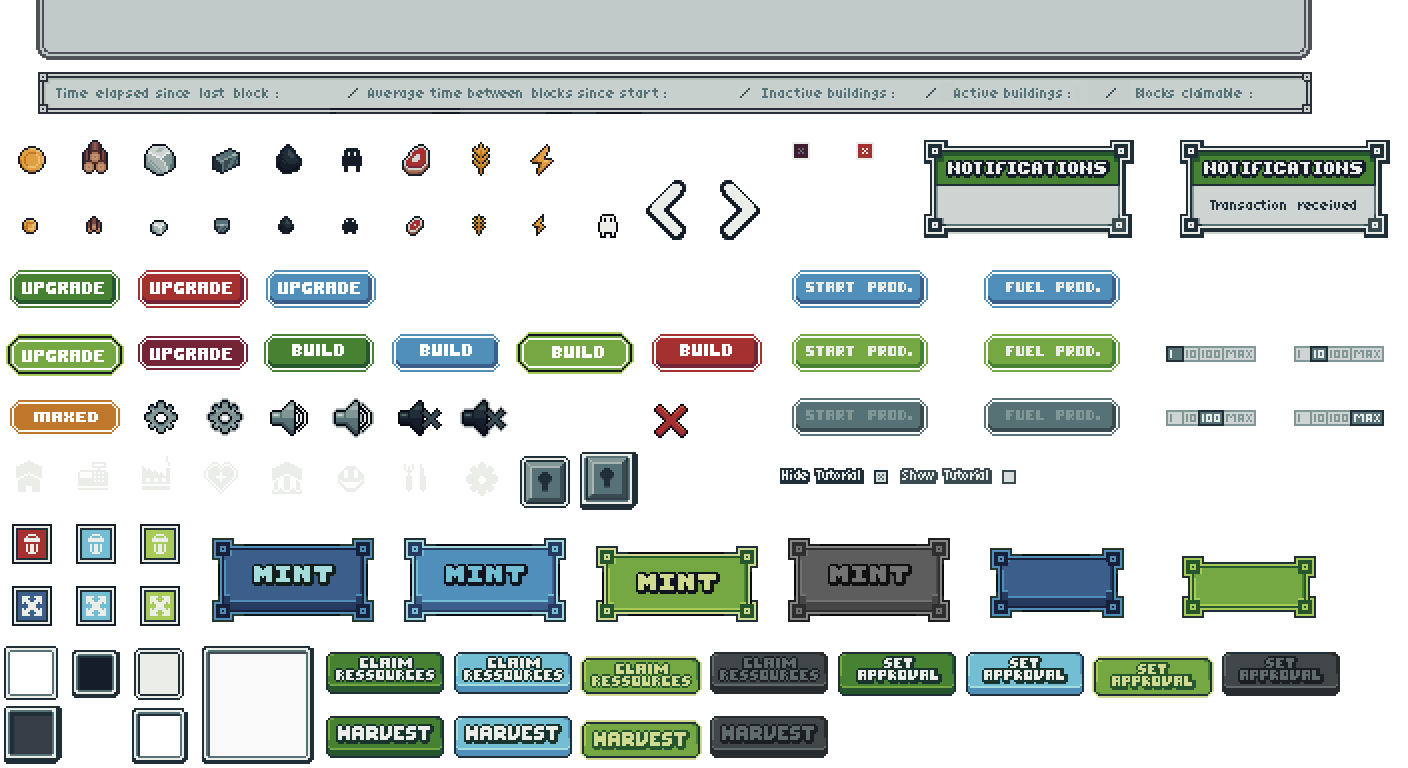
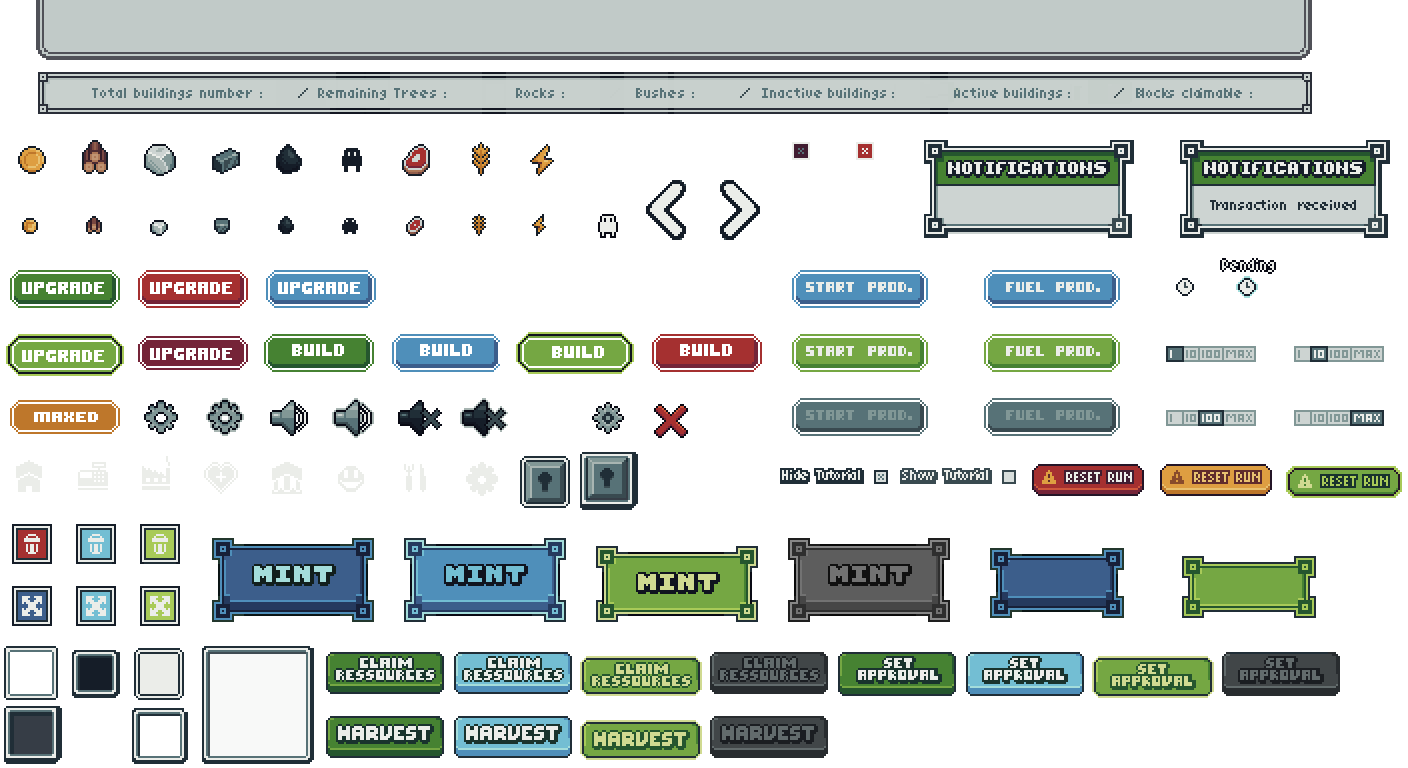
update sub bar + btn hide/show tutorial

diff --git a/src/client/providers/GameContext.tsx b/src/client/providers/GameContext.tsx
@@ -38,7 +38,8 @@ export interface IPopUp {
 
 export interface IBuildingData {
   active?: [],
-  inactive?: []
+  inactive?: [],
+  total?: number,
 }
 
 export interface IResources {
@@ -73,6 +74,7 @@ export interface IGameState {
   populationBusy?: number;
   populationFree?: number;
   coal?: number;
+  counterResources: any[];
   resources: number[];
   updateBuildings: (t: number) => void;
   setAddress: (addr: string) => void;
@@ -106,6 +108,7 @@ export const GameState: IGameState = {
   populationBusy: 0,
   populationFree: 0,
   resources : [],
+  counterResources: [],
   updateBuildings: () => {},
   setAddress: () => {},
   updateTokenId: () => {},
@@ -144,6 +147,7 @@ interface SetBuildingCount {
 interface SetMapArray {
   type: "set_mapArray";
   mapArray?: any[];
+  counters: any[];
 }
 
 interface SetError {
@@ -196,6 +200,7 @@ interface SetBuildingData {
   type: "set_buildingData";
   inactive?: [];
   active?: [];
+  total?: number;
 }
 interface SetNonce {
   type: "set_nonce";
@@ -237,13 +242,17 @@ function reducer(state: IGameState, action: Action): IGameState {
       return { ...state, buildingCount: action.buildingCount };
     }
     case "set_mapArray": {
-      return { ...state, mapArray: action.mapArray };
+      return { ...state, 
+        mapArray: action.mapArray,
+        counterResources : action.counters
+      };
     }
     case "set_buildingData": {
       return { ...state, 
         buildingData: {
           "active" : action.active,
-          "inactive": action.inactive
+          "inactive": action.inactive,
+          "total": action.total
         }
       };
     }
@@ -515,16 +524,38 @@ export const AppStateProvider: React.FC<
           uint256.bnToUint256(state.tokenId),
         ]);
         var i = 0
+        var counters : any[] = [];
         elem.forEach((_map : any) => {
           while (i < 640) {
             var elem = toBN(_map[i])
             _mapArray.push(elem.toString())
+            if (elem.toString().length < 16) {
+              var type_id = parseInt(elem.toString()[4] + elem.toString()[5])
+              if (type_id == 2 || type_id == 3 || type_id == 20 || type_id == 27) {
+                if (counters[type_id]) {
+                  counters[type_id] += 1
+                } else {
+                  counters[type_id] = 1
+                }
+              }
+            } else {
+              var type_id = parseInt(elem.toString()[5] + elem.toString()[6])
+              if (type_id == 2 || type_id == 3 || type_id == 20 || type_id == 27) {
+                if (counters[type_id]) {
+                  counters[type_id] += 1
+                } else {
+                  counters[type_id] = 1
+                }
+              }
+            }
             i++;
           }
         })
+        console.log('counters', counters)
         dispatch({
           type: "set_mapArray",
           mapArray: _mapArray,
+          counters: counters
         });
       } catch (e) {
         console.warn("Error when retrieving get_map_array in M01_Worlds");
@@ -631,25 +662,13 @@ export const AppStateProvider: React.FC<
 
         console.log('inactive', inactiveBuildings)
         console.log('active', activeBuildings)
-
-        // Test
-        // activeBuildings[201] = []
-        // activeBuildings[201]['type'] = 7
-        // activeBuildings[201]['pos_start'] = 48
-        // activeBuildings[201]['recharges'] = 5
-        // activeBuildings[201]['last_claim'] = 200
-
-        // inactiveBuildings[202] = []
-        // inactiveBuildings[202]['type'] = 8
-        // inactiveBuildings[202]['pos_start'] = 1
-        // inactiveBuildings[202]['recharges'] = 0
-        // inactiveBuildings[202]['last_claim'] = 200
-        // end test
+        console.log('total Buildings', maxLength / 5)
 
         dispatch({
           type: "set_buildingData",
           active: activeBuildings as [],
-          inactive: inactiveBuildings as []
+          inactive: inactiveBuildings as [],
+          total: maxLength/ 5 as number
         });
       } catch (e) {
         console.warn("Error when retrieving get_all_buildings_data in M03_Buildings");
@@ -713,6 +732,7 @@ export const AppStateProvider: React.FC<
         populationFree: state.populationFree,
         coal: state.coal,
         resources: state.resources,
+        counterResources: state.counterResources,
         updateBuildings,
         setAddress,
         updateTokenId,

diff --git a/src/client/components/GameUI/MenuBar.tsx b/src/client/components/GameUI/MenuBar.tsx
@@ -2,7 +2,6 @@ import { useStarknet, useStarknetBlock } from "@starknet-react/core";
 import React, { useMemo, useState, useEffect } from "react";
 import { toBN } from "starknet/dist/utils/number";
 import { useGameContext } from "../../hooks/useGameContext";
-// import { ConnectWallet } from "../ConnectWallet";
 import useClaim from "../../hooks/invoke/useClaim";
 import useActiveNotifications from "../../hooks/useNotifications";
 import Notifications from "../Notifications";
@@ -16,7 +15,7 @@ export function MenuBar() {
   const {account} = useStarknet()
   const { data: block } = useStarknetBlock()
 
-  const {tokenId, updateTokenId, setAddress, blockGame, buildingData, nonce, updateNonce } = useGameContext();
+  const {tokenId, updateTokenId, setAddress, blockGame, buildingData, nonce, updateNonce, counterResources } = useGameContext();
   const {energy, frensCoins, wood, rock, coal, metal, populationBusy, populationFree, meat, cereal} = useResourcesContext();
   const { updateSound, sound } = useSelectContext()
 
@@ -235,9 +234,6 @@ export function MenuBar() {
               {tokenId && <div className="btnInit pixelated" onClick={() => reinitializeLand()} >Reinitialize land</div> }
             </div>
             <div className="flex jutify-center relative" style={{ marginTop: "-13px" }}></div>
-            {/* <div className="flex jutify-center relative" style={{ marginTop: "-13px" }}>
-              <ConnectWallet />
-            </div> */}
           </div>
             {/* <div 
               className="btnBottom pixelated" 
@@ -249,8 +245,10 @@ export function MenuBar() {
       </div>
       <div className="absolute selectDisable" style={{zIndex: "1", pointerEvents: "none"}}>
         <div className="subBar">
-          <div className="fontHpxl_JuicySmall absolute" style={{ marginTop: "16px", marginLeft: "284px" }}>2mn 30</div>
-          <div className="fontHpxl_JuicySmall absolute" style={{ marginTop: "16px", marginLeft: "674px" }}>2mn 30</div>
+          <div className="fontHpxl_JuicySmall absolute" style={{ marginTop: "16px", marginLeft: "268px" }}>{buildingData && buildingData.total && buildingData.total > 0 ? buildingData.total : 0}</div>
+          <div className="fontHpxl_JuicySmall absolute" style={{ marginTop: "16px", marginLeft: "452px" }}>{counterResources && counterResources[3] ? counterResources[3] : 0}</div>
+          <div className="fontHpxl_JuicySmall absolute" style={{ marginTop: "16px", marginLeft: "570px" }}>{counterResources && counterResources[2] ? counterResources[2] : 0}</div>
+          <div className="fontHpxl_JuicySmall absolute" style={{ marginTop: "16px", marginLeft: "700px" }}>{counterResources && counterResources[27] ? counterResources[27] : 0}</div>
           <div className="fontHpxl_JuicySmall absolute" style={{ marginTop: "16px", marginLeft: "898px" }}>{buildingData && buildingData.inactive ? Object.keys(buildingData.inactive).length : 0}</div>
           <div className="fontHpxl_JuicySmall absolute" style={{ marginTop: "16px", marginLeft: "1078px" }}>{buildingData && buildingData.active ? Object.keys(buildingData.active).length : 0}</div>
           <div className="fontHpxl_JuicySmall absolute" style={{ marginTop: "16px", marginLeft: "1261px" }}>{blockClaimable}</div>

diff --git a/src/client/components/GameUI/Achievements.tsx b/src/client/components/GameUI/Achievements.tsx
@@ -30,9 +30,9 @@ export function Achievements(props : any) {
   return (
     <>
       {showAchievement ? 
-        <div className="btnShowTuto1 pixelated selectDisable" onClick={() => setShowAchievement(!showAchievement)}></div>
-      : 
         <div className="btnShowTuto0 pixelated selectDisable" onClick={() => setShowAchievement(!showAchievement)}></div>
+      : 
+        <div className="btnShowTuto1 pixelated selectDisable" onClick={() => setShowAchievement(!showAchievement)}></div>
       }
 
       {!showGoal && showAchievement &&

diff --git a/src/client/style/index.css b/src/client/style/index.css
@@ -361,6 +361,8 @@ body {
 }
 .splashScroll {
     pointer-events: all;
+    height: auto;
+    width: 100%;
 }
 .nftImg {
     margin-top: 300px;
@@ -446,7 +448,7 @@ body {
 
 @media screen and (min-width: 1025px) {
     .home-s1 {
-        height: 93vh;
+        height: 92vh;
     }
     .frensLandsWorld {
         margin-top: 120px;
